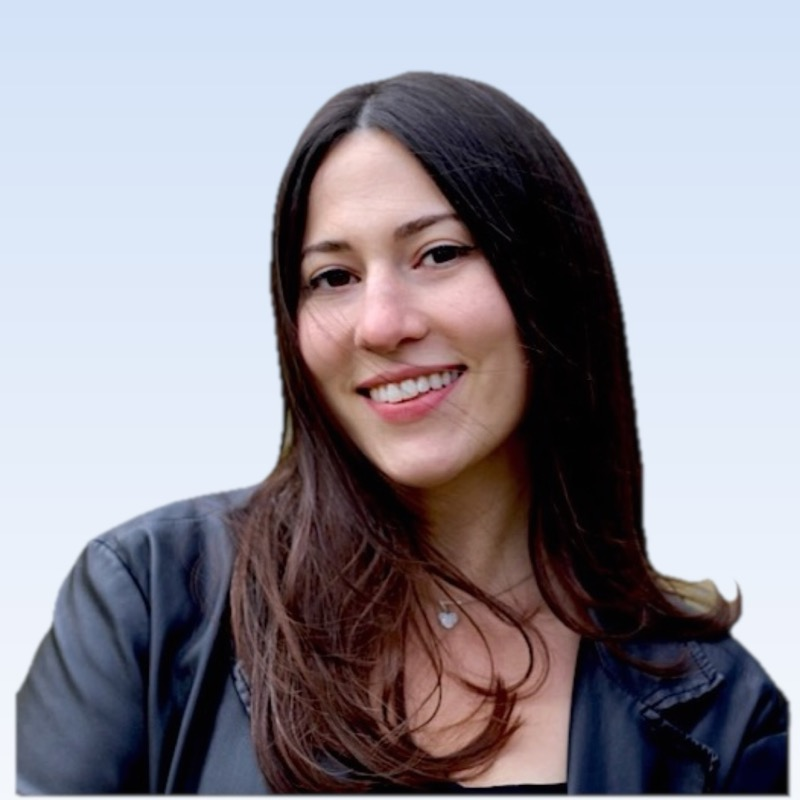
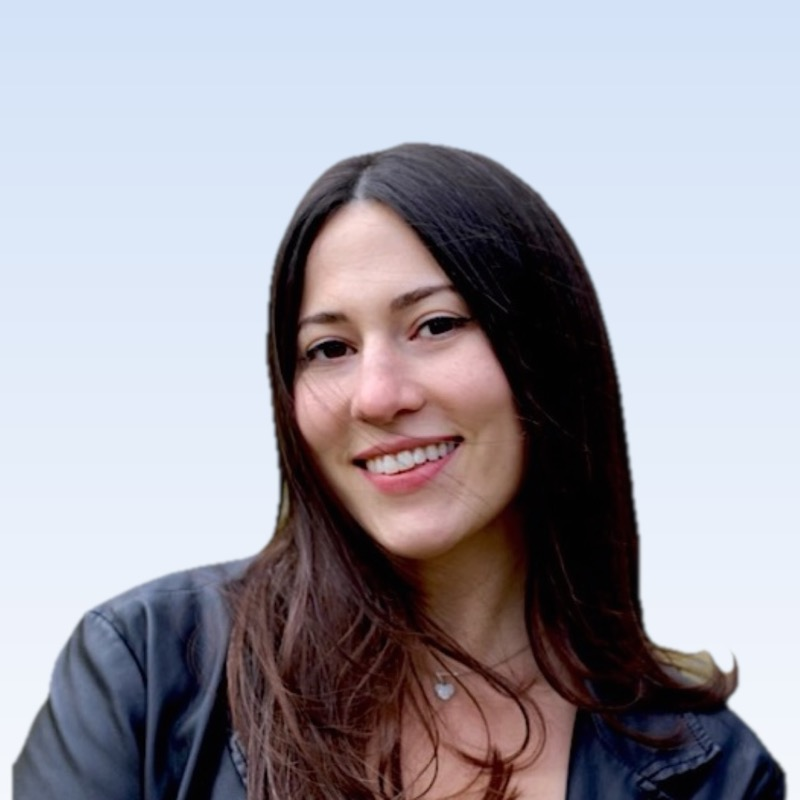
About: 260px founder photo with face centred

diff --git a/styles.css b/styles.css
@@ -722,8 +722,8 @@ h2 .accent, h2 .accent-light { color: inherit; }
 .spot-steps { background: var(--white); border: 1px solid var(--line); border-radius: var(--radius); padding: 28px; }
 .spot-steps h3 { margin-bottom: 18px; }
 .story { max-width: 760px; }
-.story.story-with-photo { max-width: none; display: grid; grid-template-columns: 320px minmax(0, 700px); gap: 64px; align-items: center; }
-.story-photo { width: 320px; aspect-ratio: 1; border-radius: 50%; overflow: hidden; background: #e8f1ff; border: 6px solid var(--white); box-shadow: 0 0 0 1px var(--line), 0 20px 50px -24px rgba(11, 31, 92, .35); }
+.story.story-with-photo { max-width: none; display: grid; grid-template-columns: 260px minmax(0, 700px); gap: 64px; align-items: center; }
+.story-photo { width: 260px; aspect-ratio: 1; border-radius: 50%; overflow: hidden; background: #e8f1ff; border: 6px solid var(--white); box-shadow: 0 0 0 1px var(--line), 0 20px 50px -24px rgba(11, 31, 92, .35); }
 .story-photo img { width: 100%; height: 100%; object-fit: cover; }
 @media (max-width: 880px) {
   .story.story-with-photo { grid-template-columns: 1fr; gap: 28px; justify-items: center; }

diff --git a/about.html b/about.html
@@ -22,7 +22,7 @@
   <link rel="preconnect" href="https://fonts.googleapis.com">
   <link rel="preconnect" href="https://fonts.gstatic.com" crossorigin>
   <link href="https://fonts.googleapis.com/css2?family=Plus+Jakarta+Sans:wght@400;500;600;700;800&display=swap" rel="stylesheet">
-  <link rel="stylesheet" href="styles.css?v=202610060908">
+  <link rel="stylesheet" href="styles.css?v=202610060925">
 </head>
 <body>
 
@@ -99,7 +99,7 @@
 
     <section class="section section-tint">
       <div class="container story story-with-photo">
-        <div class="story-photo"><img src="assets/esther.jpg?v=202610060921" alt="Esther Jacob, founder of Nurse2Tech" width="800" height="800"></div>
+        <div class="story-photo"><img src="assets/esther.jpg?v=202610060925" alt="Esther Jacob, founder of Nurse2Tech" width="800" height="800"></div>
         <div class="story-text">
         <p class="eyebrow">Meet the founder</p>
         <h2>Hi, I'm Esther.</h2>

diff --git a/apply.html b/apply.html
@@ -22,7 +22,7 @@
   <link rel="preconnect" href="https://fonts.googleapis.com">
   <link rel="preconnect" href="https://fonts.gstatic.com" crossorigin>
   <link href="https://fonts.googleapis.com/css2?family=Plus+Jakarta+Sans:wght@400;500;600;700;800&display=swap" rel="stylesheet">
-  <link rel="stylesheet" href="styles.css?v=202610060908">
+  <link rel="stylesheet" href="styles.css?v=202610060925">
 </head>
 <body class="page-apply">
 

diff --git a/contact.html b/contact.html
@@ -22,7 +22,7 @@
   <link rel="preconnect" href="https://fonts.googleapis.com">
   <link rel="preconnect" href="https://fonts.gstatic.com" crossorigin>
   <link href="https://fonts.googleapis.com/css2?family=Plus+Jakarta+Sans:wght@400;500;600;700;800&display=swap" rel="stylesheet">
-  <link rel="stylesheet" href="styles.css?v=202610060908">
+  <link rel="stylesheet" href="styles.css?v=202610060925">
 </head>
 <body>
 

diff --git a/events.html b/events.html
@@ -22,7 +22,7 @@
   <link rel="preconnect" href="https://fonts.googleapis.com">
   <link rel="preconnect" href="https://fonts.gstatic.com" crossorigin>
   <link href="https://fonts.googleapis.com/css2?family=Plus+Jakarta+Sans:wght@400;500;600;700;800&display=swap" rel="stylesheet">
-  <link rel="stylesheet" href="styles.css?v=202610060908">
+  <link rel="stylesheet" href="styles.css?v=202610060925">
 </head>
 <body>
 

diff --git a/index.html b/index.html
@@ -22,7 +22,7 @@
   <link rel="preconnect" href="https://fonts.googleapis.com">
   <link rel="preconnect" href="https://fonts.gstatic.com" crossorigin>
   <link href="https://fonts.googleapis.com/css2?family=Plus+Jakarta+Sans:wght@400;500;600;700;800&display=swap" rel="stylesheet">
-  <link rel="stylesheet" href="styles.css?v=202610060908">
+  <link rel="stylesheet" href="styles.css?v=202610060925">
 </head>
 <body>
 

diff --git a/jobs.html b/jobs.html
@@ -22,7 +22,7 @@
   <link rel="preconnect" href="https://fonts.googleapis.com">
   <link rel="preconnect" href="https://fonts.gstatic.com" crossorigin>
   <link href="https://fonts.googleapis.com/css2?family=Plus+Jakarta+Sans:wght@400;500;600;700;800&display=swap" rel="stylesheet">
-  <link rel="stylesheet" href="styles.css?v=202610060908">
+  <link rel="stylesheet" href="styles.css?v=202610060925">
 </head>
 <body>
 

diff --git a/privacy.html b/privacy.html
@@ -22,7 +22,7 @@
   <link rel="preconnect" href="https://fonts.googleapis.com">
   <link rel="preconnect" href="https://fonts.gstatic.com" crossorigin>
   <link href="https://fonts.googleapis.com/css2?family=Plus+Jakarta+Sans:wght@400;500;600;700;800&display=swap" rel="stylesheet">
-  <link rel="stylesheet" href="styles.css?v=202610060908">
+  <link rel="stylesheet" href="styles.css?v=202610060925">
 </head>
 <body>
 

diff --git a/resources.html b/resources.html
@@ -22,7 +22,7 @@
   <link rel="preconnect" href="https://fonts.googleapis.com">
   <link rel="preconnect" href="https://fonts.gstatic.com" crossorigin>
   <link href="https://fonts.googleapis.com/css2?family=Plus+Jakarta+Sans:wght@400;500;600;700;800&display=swap" rel="stylesheet">
-  <link rel="stylesheet" href="styles.css?v=202610060908">
+  <link rel="stylesheet" href="styles.css?v=202610060925">
 </head>
 <body>
 

diff --git a/roles.html b/roles.html
@@ -22,7 +22,7 @@
   <link rel="preconnect" href="https://fonts.googleapis.com">
   <link rel="preconnect" href="https://fonts.gstatic.com" crossorigin>
   <link href="https://fonts.googleapis.com/css2?family=Plus+Jakarta+Sans:wght@400;500;600;700;800&display=swap" rel="stylesheet">
-  <link rel="stylesheet" href="styles.css?v=202610060908">
+  <link rel="stylesheet" href="styles.css?v=202610060925">
 </head>
 <body>
 

diff --git a/spotlight.html b/spotlight.html
@@ -22,7 +22,7 @@
   <link rel="preconnect" href="https://fonts.googleapis.com">
   <link rel="preconnect" href="https://fonts.gstatic.com" crossorigin>
   <link href="https://fonts.googleapis.com/css2?family=Plus+Jakarta+Sans:wght@400;500;600;700;800&display=swap" rel="stylesheet">
-  <link rel="stylesheet" href="styles.css?v=202610060908">
+  <link rel="stylesheet" href="styles.css?v=202610060925">
 </head>
 <body>
 
